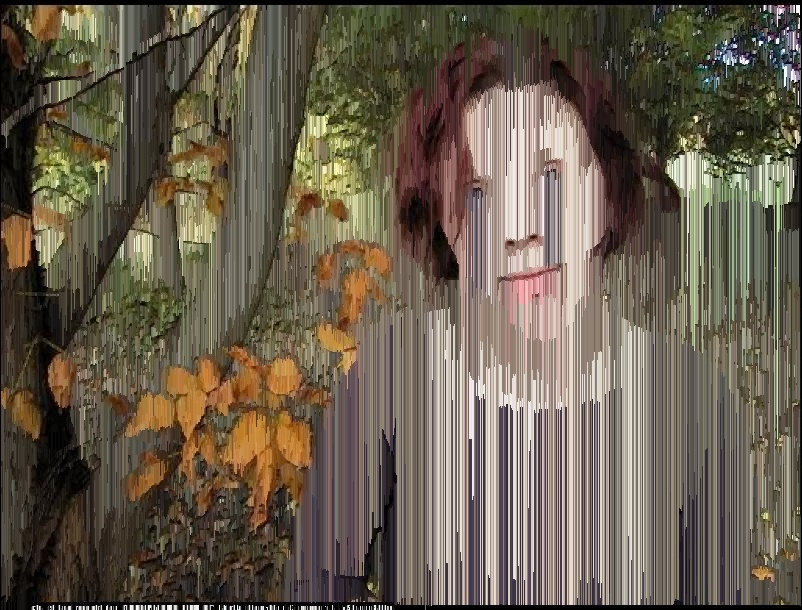
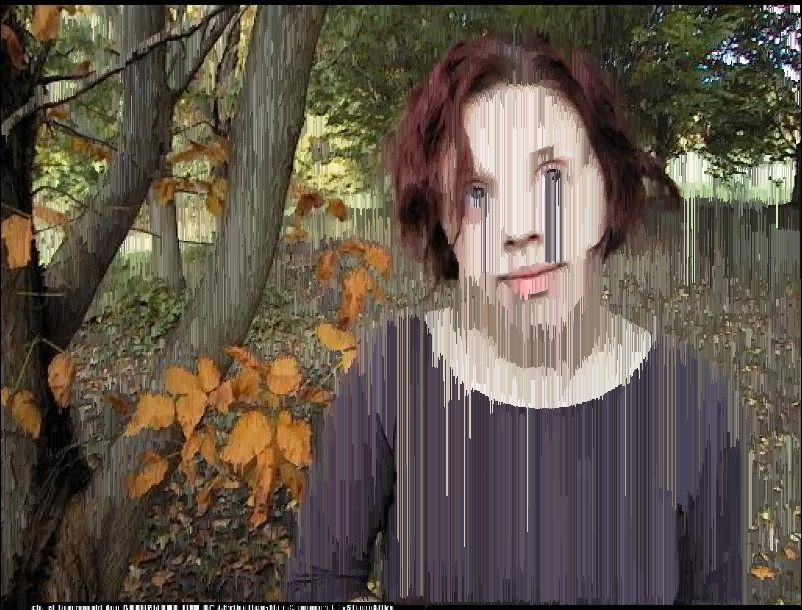
split sorting into functions

diff --git a/sort.py b/sort.py
@@ -12,18 +12,53 @@ def show(name, img):
 def tohsl(data):
     return colorsys.rgb_to_hls(data[2], data[1], data[0])
 
-level = float(sys.argv[2])
+def checkdown(img, y, x):
+    if abs(tohsl(img[y, x])[2] - tohsl(img[y-1, x])[2]) < level:
+        return True
+    return False
 
+def checkright(img, y, x):
+    if abs(tohsl(img[y, x])[2] - tohsl(img[y, x-1])[2]) < level:
+        return True
+    return False
+
+def down(img):
+    for y in range(img.shape[0]):
+        for x in range(img.shape[1]):
+            if y != 0:
+                if checkdown(img, y, x):
+                    img[y, x] = img[y-1, x]
+
+        print('{0:.0%}'.format(float(y)/img.shape[0]) + ' complete')
+    print 'done with down pass'
+
+def right(img):
+    for x in range(img.shape[1]):
+        for y in range(img.shape[0]):
+            if x != 0:
+                if checkright(img, y, x):
+                    img[y, x] = img[y, x-1]
+
+        print('{0:.0%}'.format(float(x)/img.shape[1]) + ' complete')
+    print 'done with right pass'
+
+def downright(img):
+    for y in range(img.shape[0]):
+        for x in range(img.shape[1]):
+            if y != 0:
+                if checkdown(img, y, x):
+                    img[y, x] = img[y-1, x]
+            if x != 0:
+                if checkright(img, y, x):
+                    img[y, x] = img[y, x-1]
+            print('{0:.0%}'.format(float(y + x)/(img.shape[0] + img.shape[1])) + ' complete')
+
+
+level = float(sys.argv[2])
 imgname = sys.argv[1]
 img = cv2.imread('in/' + imgname, -1)
 
-for y in range(img.shape[0]):
-    for x in range(img.shape[1]):
-        if y != 0:
-            if abs(tohsl(img[y, x])[2] - tohsl(img[y-1, x])[2]) < level:
-                img[y, x] = img[y-1, x]
-
-    print('{0:.0%}'.format(float(y)/img.shape[0]) + ' complete')
+downright(img)
 
 show('main', img)
 print 'level : ' + str(level)
